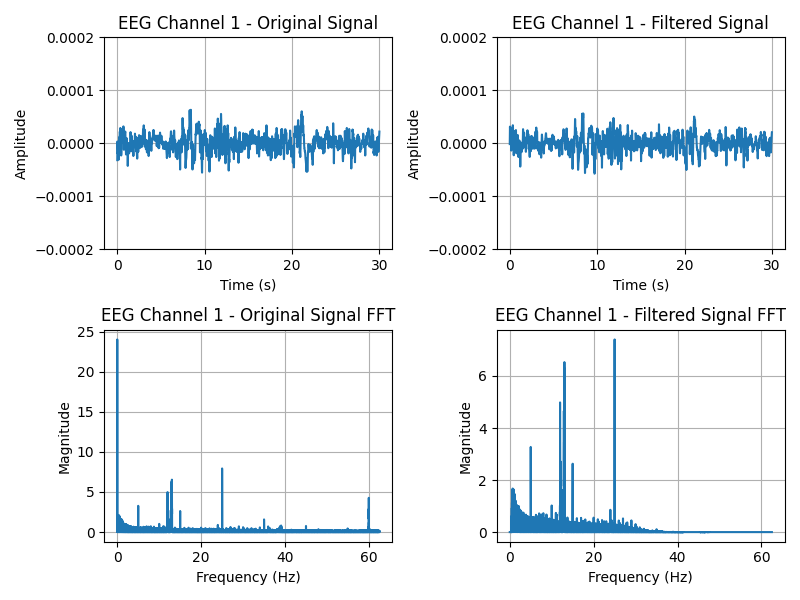
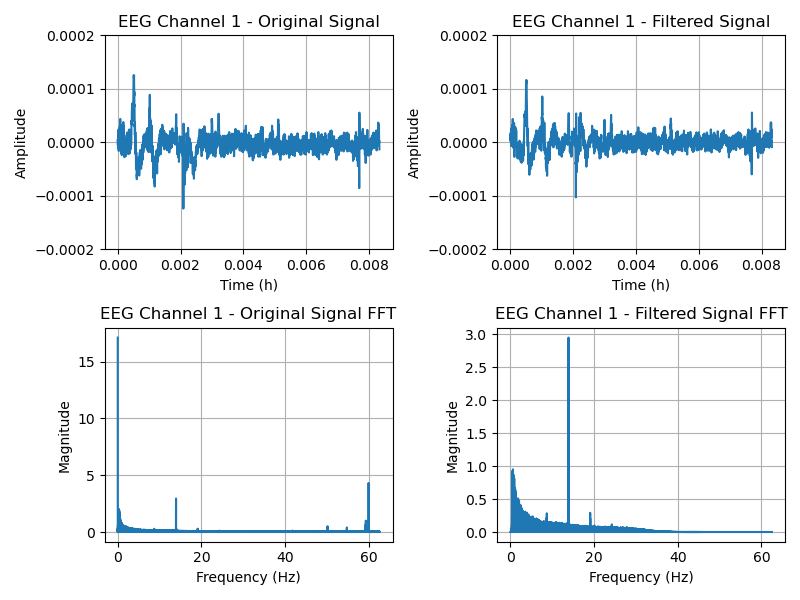
Add new test

diff --git a/Python/tests/test_preprocessing.py b/Python/tests/test_preprocessing.py
@@ -1,27 +1,116 @@
 import numpy as np
-from src.preprocessing import lowpass_filter, preprocess, highpass_filter
+from src.preprocessing import lowpass_filter, preprocess, highpass_filter, notch_filter, bandpass_filter
 import config
 from src.data_loader import load_training_data
+import matplotlib.pyplot as plt
+from src.visualization import visualize_fft, visualize_signal
+import os
 
+# TODO: Add more testing functions for each filter
 
-def test_highpass_filter_edf():
+def test_notch_filter_edf():
+
     edf_file = "../data/training/R1.edf"
     xml_file = "../data/training/R1.xml"
-    multi_channel_data, labels, info = load_training_data(
+    multi_channel_data, labels, channel_info = load_training_data(
                 edf_file, xml_file
             )
     
-    """Function to test highpass filter for baseline wander removal"""
+    eeg_data = multi_channel_data['eeg']
+    eeg_fs = channel_info['eeg_fs'] 
+    print(f"EEG sampling frequency: {eeg_fs} Hz")
+    preprocessed_eeg = np.zeros_like(eeg_data)
+
+    for ch in range(eeg_data.shape[1]):
+        print(f"Processing EEG channel {ch+1}")
+        nepochs = eeg_data.shape[0]
+        signal = eeg_data[:, ch, :].flatten()
+        # Apply EEG-specific preprocessing
+        filtered_signal = notch_filter(filtered_signal, config.NOTCH_FILTER_FREQ, config.NOTCH_FILTER_Q, eeg_fs)
+        
+        # FFT visualization
+        y_range_signal = [-0.0002, 0.0002]
+        fig, axes = plt.subplots(2, 2, figsize=(8, 6))
+        visualize_signal(signal[0:3750], eeg_fs, ax=axes[0,0], title=f"EEG Channel {ch+1} - Original Signal")
+        axes[0,0].set_ylim(y_range_signal)
+        visualize_fft(signal, eeg_fs, ax=axes[1,0], title=f"EEG Channel {ch+1} - Original Signal FFT")
+        visualize_signal(filtered_signal[0:3750], eeg_fs, ax=axes[0,1], title=f"EEG Channel {ch+1} - Filtered Signal")
+        axes[0,1].set_ylim(y_range_signal)
+        visualize_fft(filtered_signal, eeg_fs, ax=axes[1,1], title=f"EEG Channel {ch+1} - Filtered Signal FFT")
+        plt.tight_layout()
+        fig.savefig(os.path.join("tests/img/", f"EEG_filtering_channel_{ch+1}.png"))
+        preprocessed_eeg[:, ch, :] = filtered_signal.reshape(nepochs, -1)
+
+
+
+def test_bandpass_filter_edf():
+
+    edf_file = "../data/training/R1.edf"
+    xml_file = "../data/training/R1.xml"
+    multi_channel_data, labels, channel_info = load_training_data(
+                edf_file, xml_file
+            )
     
-    fs = 100
-    cutoff = 10
-    data = np.sin(2 * np.pi * 5 * np.arange(0, 10, 1/fs)) + np.sin(2 * np.pi * 20 * np.arange(0, 10, 1/fs))
-    filtered_data = highpass_filter(data, cutoff, fs)
-    assert isinstance(filtered_data, np.ndarray)
-    assert filtered_data.shape == data.shape
-    # Basic check: ensure some attenuation of high frequency component
-    # This is a very simple check and might need more sophisticated validation
-    assert np.std(filtered_data) < np.std(data) # Expect some reduction in signal power
+    eeg_data = multi_channel_data['eeg']
+    eeg_fs = channel_info['eeg_fs'] 
+    print(f"EEG sampling frequency: {eeg_fs} Hz")
+    preprocessed_eeg = np.zeros_like(eeg_data)
+
+    for ch in range(eeg_data.shape[1]):
+        print(f"Processing EEG channel {ch+1}")
+        nepochs = eeg_data.shape[0]
+        signal = eeg_data[:, ch, :].flatten()
+        # Apply EEG-specific preprocessing
+        filtered_signal = bandpass_filter(filtered_signal, config.BANDPASS_FILTER_LOWER_FREQ, config.BANDPASS_FILTER_HIGHER_FREQ, eeg_fs, config.BANDPASS_FILTER_ORDER)
+        
+        # FFT visualization
+        y_range_signal = [-0.0002, 0.0002]
+        fig, axes = plt.subplots(2, 2, figsize=(8, 6))
+        visualize_signal(signal[0:3750], eeg_fs, ax=axes[0,0], title=f"EEG Channel {ch+1} - Original Signal")
+        axes[0,0].set_ylim(y_range_signal)
+        visualize_fft(signal, eeg_fs, ax=axes[1,0], title=f"EEG Channel {ch+1} - Original Signal FFT")
+        visualize_signal(filtered_signal[0:3750], eeg_fs, ax=axes[0,1], title=f"EEG Channel {ch+1} - Filtered Signal")
+        axes[0,1].set_ylim(y_range_signal)
+        visualize_fft(filtered_signal, eeg_fs, ax=axes[1,1], title=f"EEG Channel {ch+1} - Filtered Signal FFT")
+        plt.tight_layout()
+        fig.savefig(os.path.join("tests/img/", f"EEG_filtering_channel_{ch+1}.png"))
+        preprocessed_eeg[:, ch, :] = filtered_signal.reshape(nepochs, -1)
+
+
+
+def test_highpass_filter_edf():
+
+    edf_file = "../data/training/R1.edf"
+    xml_file = "../data/training/R1.xml"
+    multi_channel_data, labels, channel_info = load_training_data(
+                edf_file, xml_file
+            )
+    
+    eeg_data = multi_channel_data['eeg']
+    eeg_fs = channel_info['eeg_fs'] 
+    print(f"EEG sampling frequency: {eeg_fs} Hz")
+    preprocessed_eeg = np.zeros_like(eeg_data)
+
+    for ch in range(eeg_data.shape[1]):
+        print(f"Processing EEG channel {ch+1}")
+        nepochs = eeg_data.shape[0]
+        signal = eeg_data[:, ch, :].flatten()
+        # Apply EEG-specific preprocessing
+        filtered_signal = highpass_filter(signal, config.HIGHPASS_FILTER_FREQ,eeg_fs)
+        
+        # FFT visualization
+        y_range_signal = [-0.0002, 0.0002]
+        fig, axes = plt.subplots(2, 2, figsize=(8, 6))
+        visualize_signal(signal[0:3750], eeg_fs, ax=axes[0,0], title=f"EEG Channel {ch+1} - Original Signal")
+        axes[0,0].set_ylim(y_range_signal)
+        visualize_fft(signal, eeg_fs, ax=axes[1,0], title=f"EEG Channel {ch+1} - Original Signal FFT")
+        visualize_signal(filtered_signal[0:3750], eeg_fs, ax=axes[0,1], title=f"EEG Channel {ch+1} - Filtered Signal")
+        axes[0,1].set_ylim(y_range_signal)
+        visualize_fft(filtered_signal, eeg_fs, ax=axes[1,1], title=f"EEG Channel {ch+1} - Filtered Signal FFT")
+        plt.tight_layout()
+        fig.savefig(os.path.join("tests/img/", f"EEG_filtering_channel_{ch+1}.png"))
+        preprocessed_eeg[:, ch, :] = filtered_signal.reshape(nepochs, -1)
+  
 
 
 def test_highpass_filter():

diff --git a/Python/tests/test_classification.py b/Python/tests/test_classification.py
@@ -5,8 +5,46 @@ This can be used to test the functions in the classification module
 import pytest
 import os
 import sys
-from src.classification import hyperparameter_optimization
 from sklearn import datasets
+from sklearn.model_selection import GridSearchCV
+from sklearn.neighbors import KNeighborsClassifier
+import config
+
+
+
+def get_model_from_config(config):
+    """Get model instance based on config CLASSIFIER_TYPE"""
+    if config.CLASSIFIER_TYPE == 'knn':
+        return KNeighborsClassifier(n_neighbors=config.KNN_N_NEIGHBORS)
+    
+    else:
+        raise ValueError(f"Unknown classifier type: {config.CLASSIFIER_TYPE}")
+
+def hyperparameter_optimization(X_train, y_train, config):
+    """
+    Function to search for the optimal parameters in a hyperparameter space
+
+    Args:
+        X_train (np.ndarray[float]): Array of training set variables
+        y_train (np.ndarray[int]): Array of training set classes
+        config (dict): Config for repository.
+    """
+    
+    # Get model and parameters from config
+    base_model = get_model_from_config(config)
+    grid_params = config.GRID_PARAMS
+
+    # Perform grid search
+    gs = GridSearchCV(base_model, grid_params, verbose=1, cv=3, n_jobs=-1)
+    g_res = gs.fit(X_train, y_train)
+
+    # find the best score
+    best_score = g_res.best_score_
+
+    # Get dictionary of best params
+    best_params = g_res.best_params_
+    return(best_score, best_params)
+
 
 def test_hyperparameter_optimization():
     # TODO: Add to this test by using artificial data and using the hyperparameter optimization function
@@ -14,7 +52,7 @@ def test_hyperparameter_optimization():
     n_samples=100)
     '''X_train = [[4, 5, 10, 4, 3, 11, 14 , 8, 10, 12]]
     y_train = [21, 21, 24, 24, 21, 24, 24, 21, 21, 21]'''
-    best_score, best_params = hyperparameter_optimization(X_train, y_train)
+    best_score, best_params = hyperparameter_optimization(X_train, y_train, config)
     print(f"Best score: {best_score}")
     print(f"Best params: {best_params}")
     

diff --git a/Python/src/classification.py b/Python/src/classification.py
@@ -35,7 +35,14 @@ def get_model_from_config(config):
 
 
 def hyperparameter_optimization(X_train, y_train, config):
-    """Function to search for the optimal parameters in a hyperparameter space"""
+    """
+    Function to search for the optimal parameters in a hyperparameter space
+
+    Args:
+        X_train (np.ndarray[float]): Array of training set variables
+        y_train (np.ndarray[int]): Array of training set classes
+        config (dict): Config for repository.
+    """
     
     # Get model and parameters from config
     base_model = get_model_from_config(config)
@@ -149,6 +156,7 @@ def LOSO_split_training(features, labels, record_ids, config):
     print(f"  Kappa    = {mean_kappa:.3f} +/- {std_kappa:.3f}")
     print("="*60)
 
+    # NOTE: Doesnt this just get the last model's parameters
     final_model_params = model.get_params() 
     final_model = KNeighborsClassifier(**final_model_params)
     X_full, y_full = SMOTE(random_state=42).fit_resample(features, labels)

diff --git a/Python/tests/conftest.py b/Python/tests/conftest.py
@@ -1,0 +1,4 @@
+import sys
+import os
+
+sys.path.insert(0, os.path.abspath(os.path.join(os.path.dirname(__file__), '../src')))
